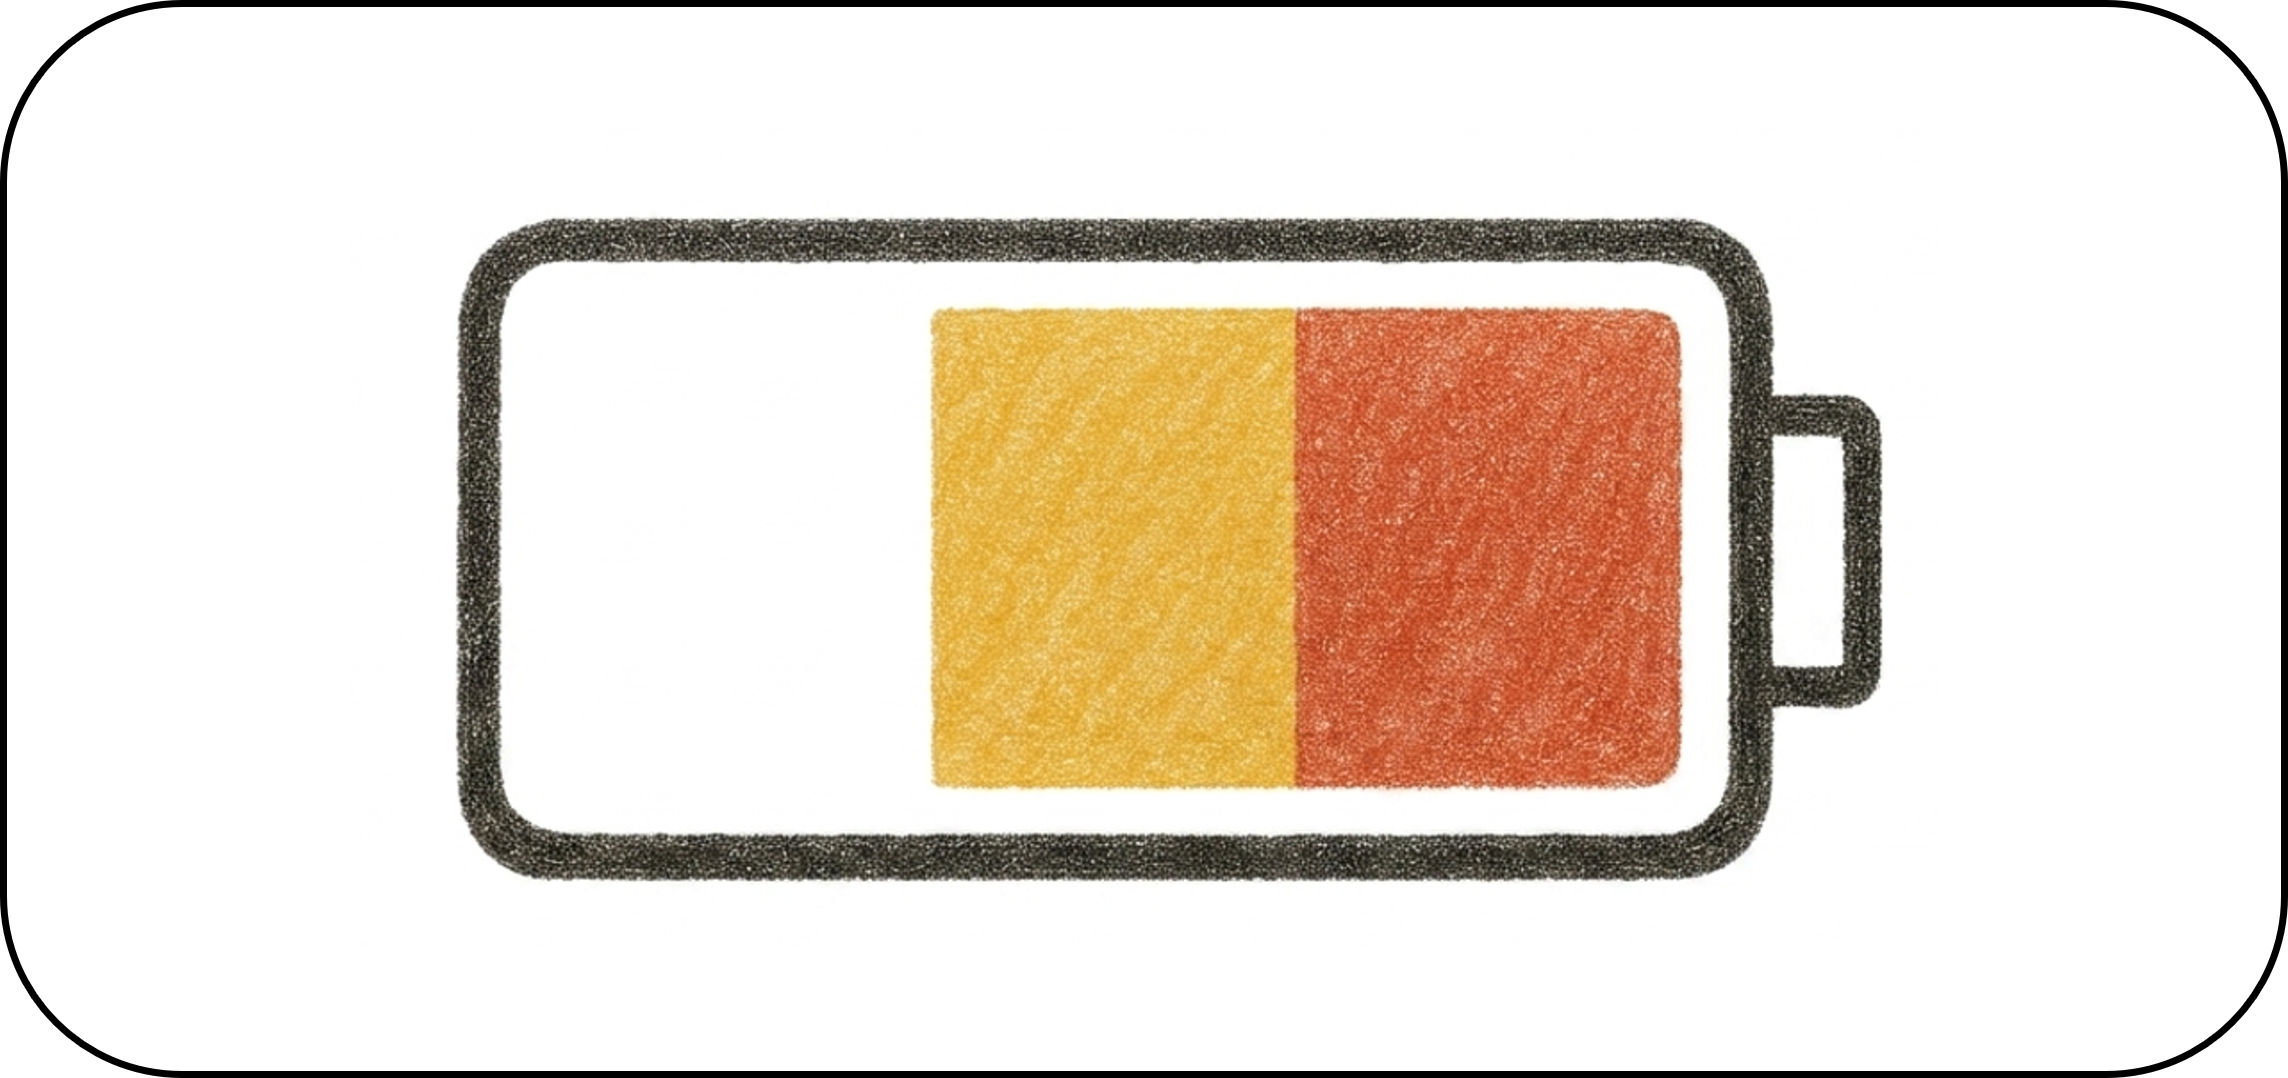
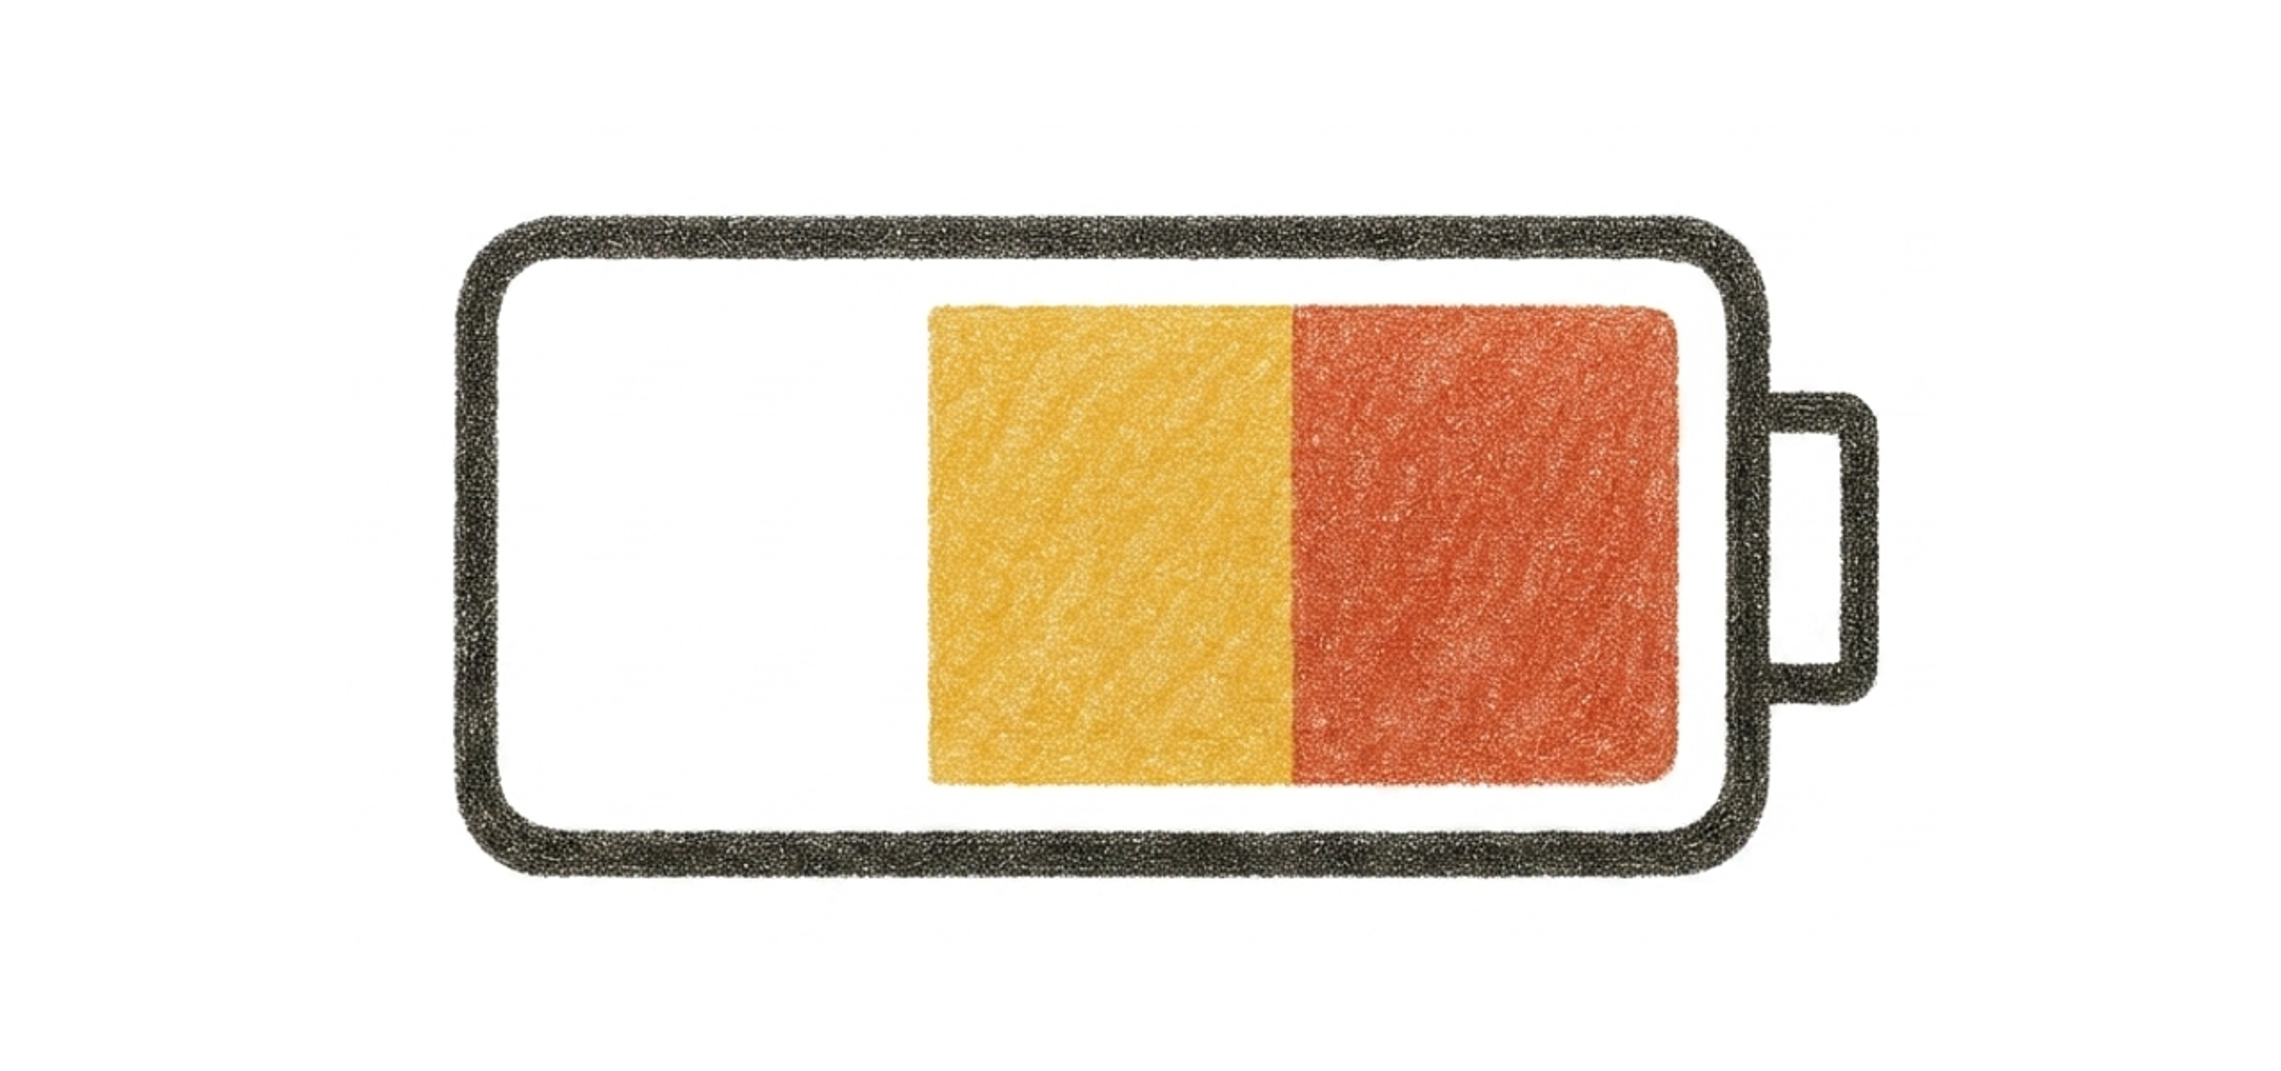
Implement click-to-flip card for Breathlessness Management service

diff --git a/styles.css b/styles.css
@@ -569,10 +569,114 @@ main {
     overflow: hidden; /* Ensure image clipping */
 }
 
-.service-card:hover {
+.service-card:hover:not(.flip-card) {
     transform: translateY(-6px);
     box-shadow: var(--shadow-md);
     border-color: rgba(34, 66, 51, 0.15);
+}
+
+/* Flip Card Specific Styles */
+.flip-card {
+    perspective: 1000px;
+    background-color: transparent;
+    border: none;
+    box-shadow: none;
+    cursor: pointer;
+    padding: 0;
+    transition: none;
+}
+
+.flip-card-inner {
+    position: relative;
+    width: 100%;
+    height: 100%;
+    transition: transform 0.8s cubic-bezier(0.175, 0.885, 0.32, 1.275); /* Tactile flip animation */
+    transform-style: preserve-3d;
+}
+
+.flip-card.flipped .flip-card-inner {
+    transform: rotateY(180deg);
+}
+
+.flip-card-front,
+.flip-card-back {
+    width: 100%;
+    -webkit-backface-visibility: hidden;
+    backface-visibility: hidden;
+    border-radius: var(--border-radius-md);
+    background-color: var(--color-white);
+    box-shadow: var(--shadow-sm);
+    border: 1px solid rgba(34, 66, 51, 0.05);
+    transition: var(--transition-smooth);
+    display: flex;
+    flex-direction: column;
+    overflow: hidden;
+}
+
+/* Front Side is absolute and fills the space established by the relative back side */
+.flip-card-front {
+    position: absolute;
+    top: 0;
+    left: 0;
+    right: 0;
+    bottom: 0;
+    z-index: 2;
+    transform: rotateY(0deg);
+}
+
+/* Back Side is relative, defining the card height based on text description */
+.flip-card-back {
+    position: relative;
+    z-index: 1;
+    transform: rotateY(180deg);
+}
+
+/* Hover effects on faces instead of parent card container */
+.flip-card:hover .flip-card-front,
+.flip-card:hover .flip-card-back {
+    box-shadow: var(--shadow-md);
+    border-color: rgba(34, 66, 51, 0.15);
+}
+
+.flip-card-front-content {
+    padding: 2.25rem 2rem;
+    display: flex;
+    flex-direction: column;
+    justify-content: center;
+    align-items: flex-start;
+    flex-grow: 1;
+}
+
+.flip-card-front-content .service-card-title {
+    margin-top: 0; /* No icon offset on front side */
+    margin-bottom: 0.5rem;
+}
+
+.flip-hint {
+    font-size: 0.85rem;
+    color: var(--color-primary);
+    font-weight: 600;
+    text-transform: uppercase;
+    letter-spacing: 0.05em;
+    display: inline-flex;
+    align-items: center;
+    gap: 0.35rem;
+    margin-top: 0.5rem;
+    transition: var(--transition-fast);
+}
+
+.flip-hint::after {
+    content: '→';
+    font-size: 1rem;
+    transition: transform 0.2s ease;
+}
+
+.flip-card:hover .flip-hint {
+    color: var(--color-accent);
+}
+
+.flip-card:hover .flip-hint::after {
+    transform: translateX(4px);
 }
 
 .service-card-image-wrapper {

diff --git a/index.html b/index.html
@@ -135,19 +135,31 @@
                     </div>
 
                     <!-- Service 3: Breathlessness Management -->
-                    <div class="service-card fade-in">
-                        <div class="service-card-image-wrapper">
-                            <img src="assets/services-images/breathless-final.png" alt="Breathlessness Management" class="service-card-image">
-                        </div>
-                        <div class="service-card-content">
-                            <div class="service-icon-wrapper">
-                                <!-- Wind / Lungs Icon -->
-                                <svg class="service-icon" viewBox="0 0 24 24" fill="none" stroke="currentColor" stroke-width="2" stroke-linecap="round" stroke-linejoin="round">
-                                    <path d="M9.59 4.59A2 2 0 1 1 11 8H2m10.59 11.41A2 2 0 1 0 14 16H2m15.73-8.27A2.5 2.5 0 1 1 19.5 12H2"></path>
-                                </svg>
+                    <div class="service-card flip-card fade-in" id="breathlessness-card" role="button" tabindex="0" aria-label="Breathlessness Management. Click to view service details.">
+                        <div class="flip-card-inner">
+                            <!-- Front Face -->
+                            <div class="flip-card-front">
+                                <div class="service-card-image-wrapper">
+                                    <img src="assets/services-images/breathless-final.png" alt="Breathlessness Management" class="service-card-image">
+                                </div>
+                                <div class="flip-card-front-content">
+                                    <h3 class="service-card-title">Breathlessness Management</h3>
+                                    <span class="flip-hint">Click to learn more</span>
+                                </div>
                             </div>
-                            <h3 class="service-card-title">Breathlessness Management</h3>
-                            <p class="service-card-description">Living with breathlessness can make everyday tasks challenging. We offer evidence-based management techniques—including pacing, breathing control, positioning, and anxiety reduction strategies. Our aim is to help you feel more in control of your symptoms, reduce anxiety, and improve your ability to participate in meaningful daily activities.</p>
+                            <!-- Back Face -->
+                            <div class="flip-card-back">
+                                <div class="service-card-content">
+                                    <div class="service-icon-wrapper">
+                                        <!-- Wind / Lungs Icon -->
+                                        <svg class="service-icon" viewBox="0 0 24 24" fill="none" stroke="currentColor" stroke-width="2" stroke-linecap="round" stroke-linejoin="round">
+                                            <path d="M9.59 4.59A2 2 0 1 1 11 8H2m10.59 11.41A2 2 0 1 0 14 16H2m15.73-8.27A2.5 2.5 0 1 1 19.5 12H2"></path>
+                                        </svg>
+                                    </div>
+                                    <h3 class="service-card-title">Breathlessness Management</h3>
+                                    <p class="service-card-description">Living with breathlessness can make everyday tasks challenging. We offer evidence-based management techniques—including pacing, breathing control, positioning, and anxiety reduction strategies. Our aim is to help you feel more in control of your symptoms, reduce anxiety, and improve your ability to participate in meaningful daily activities.</p>
+                                </div>
+                            </div>
                         </div>
                     </div>
 

diff --git a/script.js b/script.js
@@ -239,4 +239,24 @@ document.addEventListener('DOMContentLoaded', () => {
 
         }, 15000 / 10); // 1.5 seconds
     });
+
+    // -------------------------------------------------------------
+    // 7. Click-to-Flip Breathlessness Management Card
+    // -------------------------------------------------------------
+    const flipCard = document.getElementById('breathlessness-card');
+    if (flipCard) {
+        const handleFlip = (e) => {
+            // Prevent default behavior for keyboard spacebar to prevent page scrolling
+            if (e.key === ' ') {
+                e.preventDefault();
+            }
+            // Toggle flipped state on click or keydowns (Enter / Space)
+            if (e.type === 'click' || e.key === 'Enter' || e.key === ' ') {
+                flipCard.classList.toggle('flipped');
+            }
+        };
+
+        flipCard.addEventListener('click', handleFlip);
+        flipCard.addEventListener('keydown', handleFlip);
+    }
 });